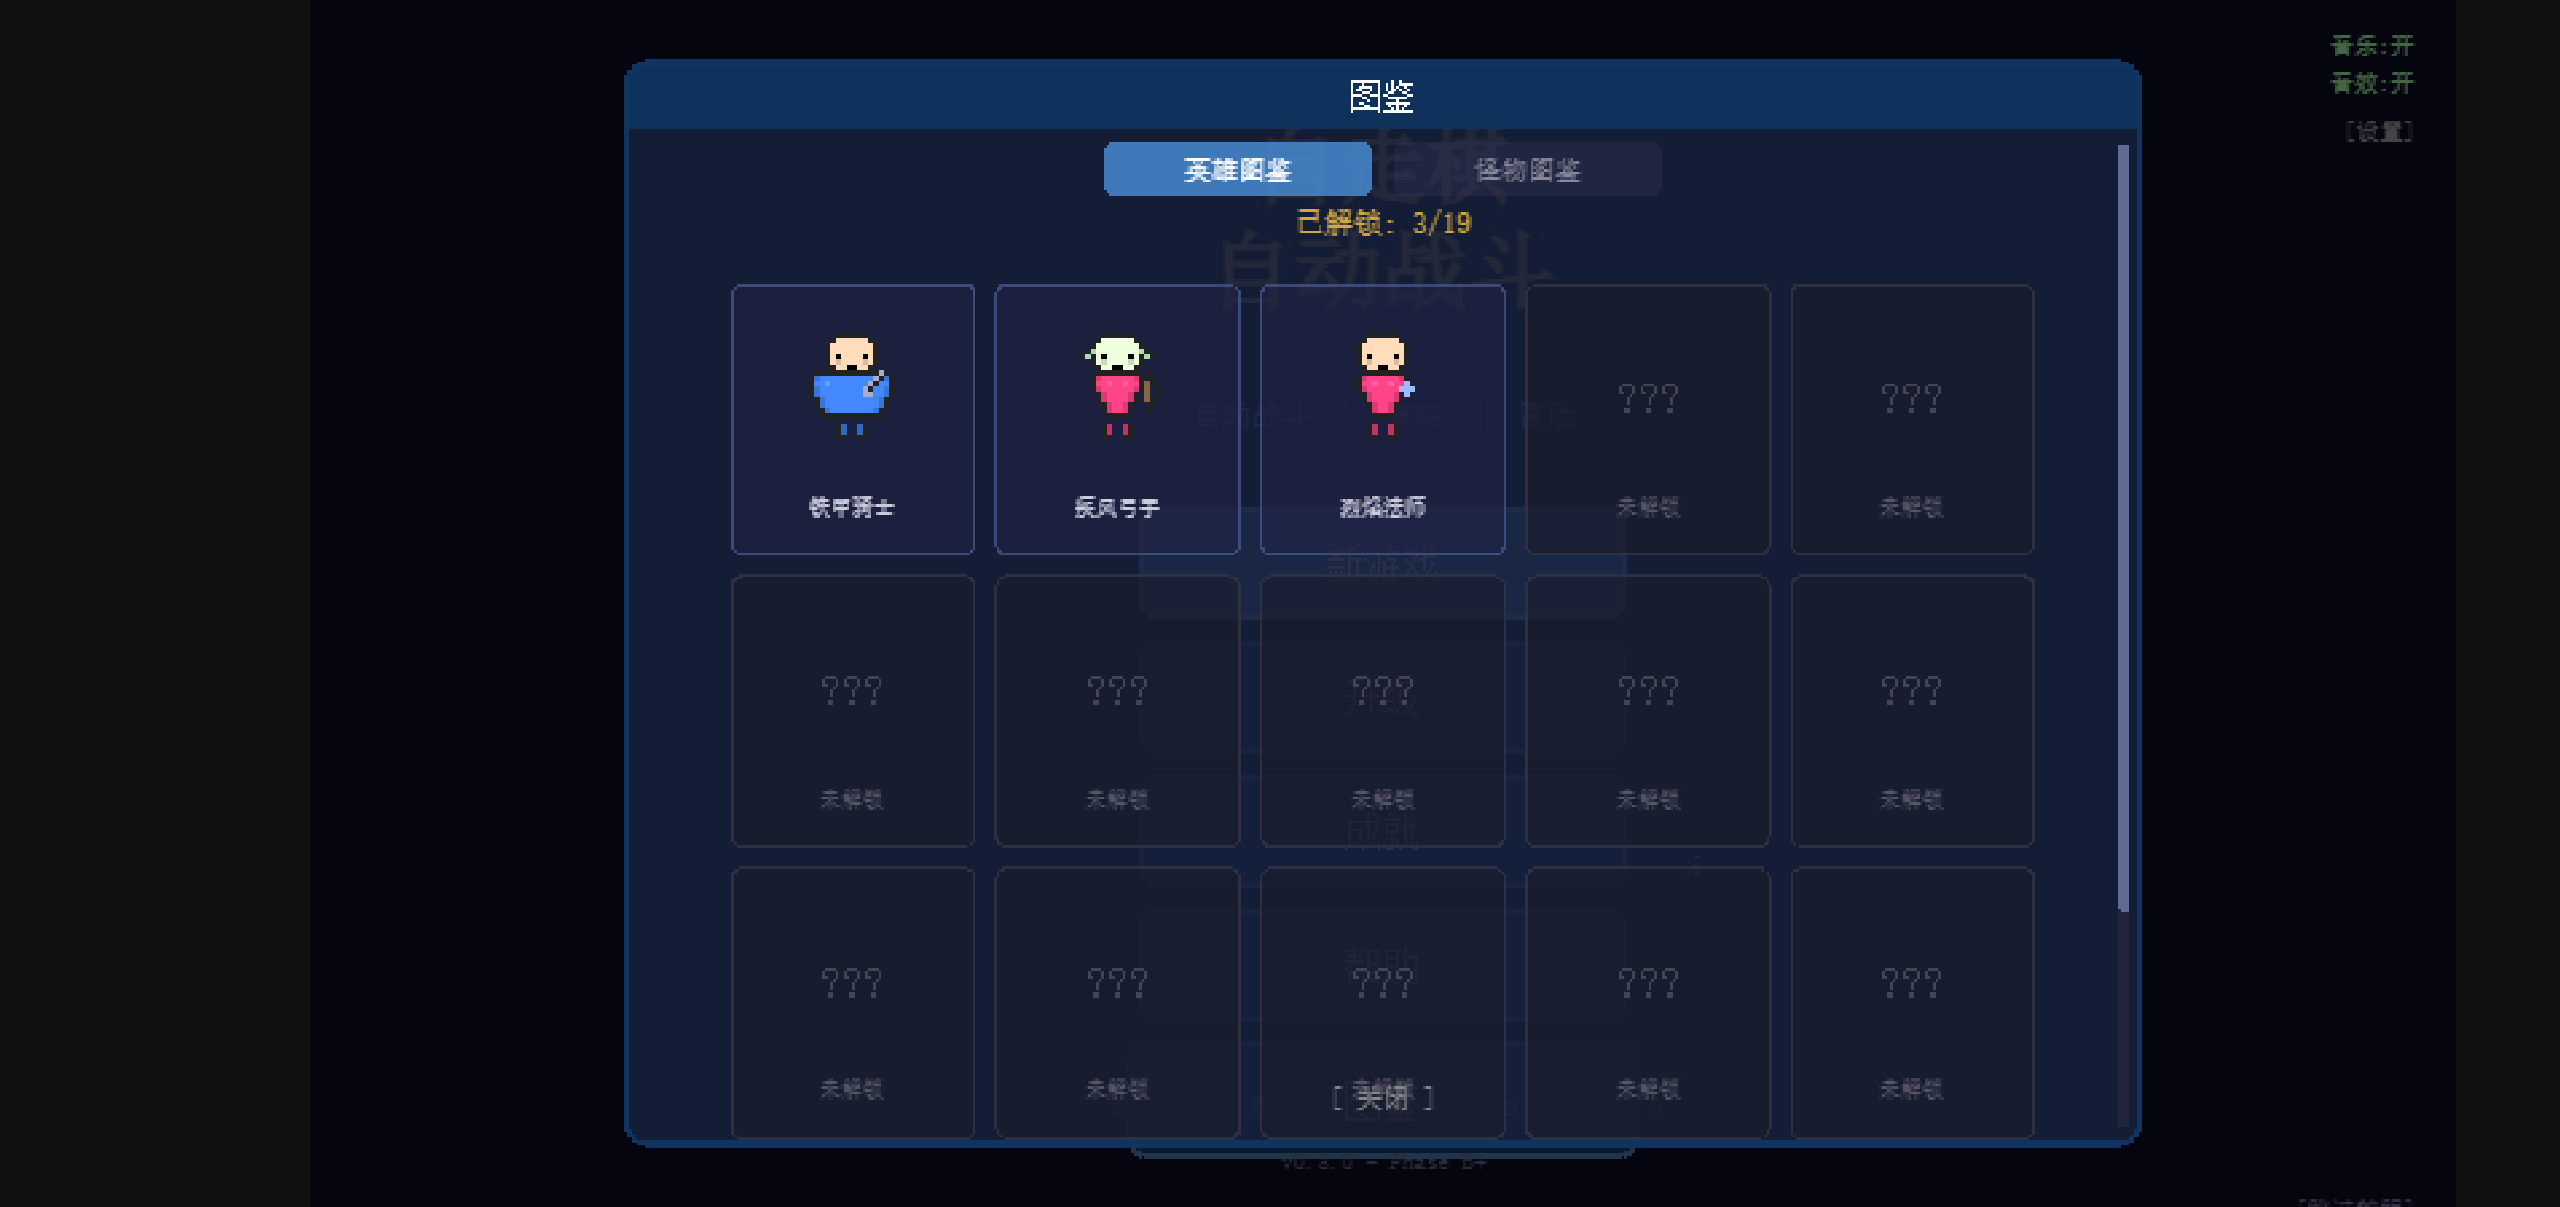
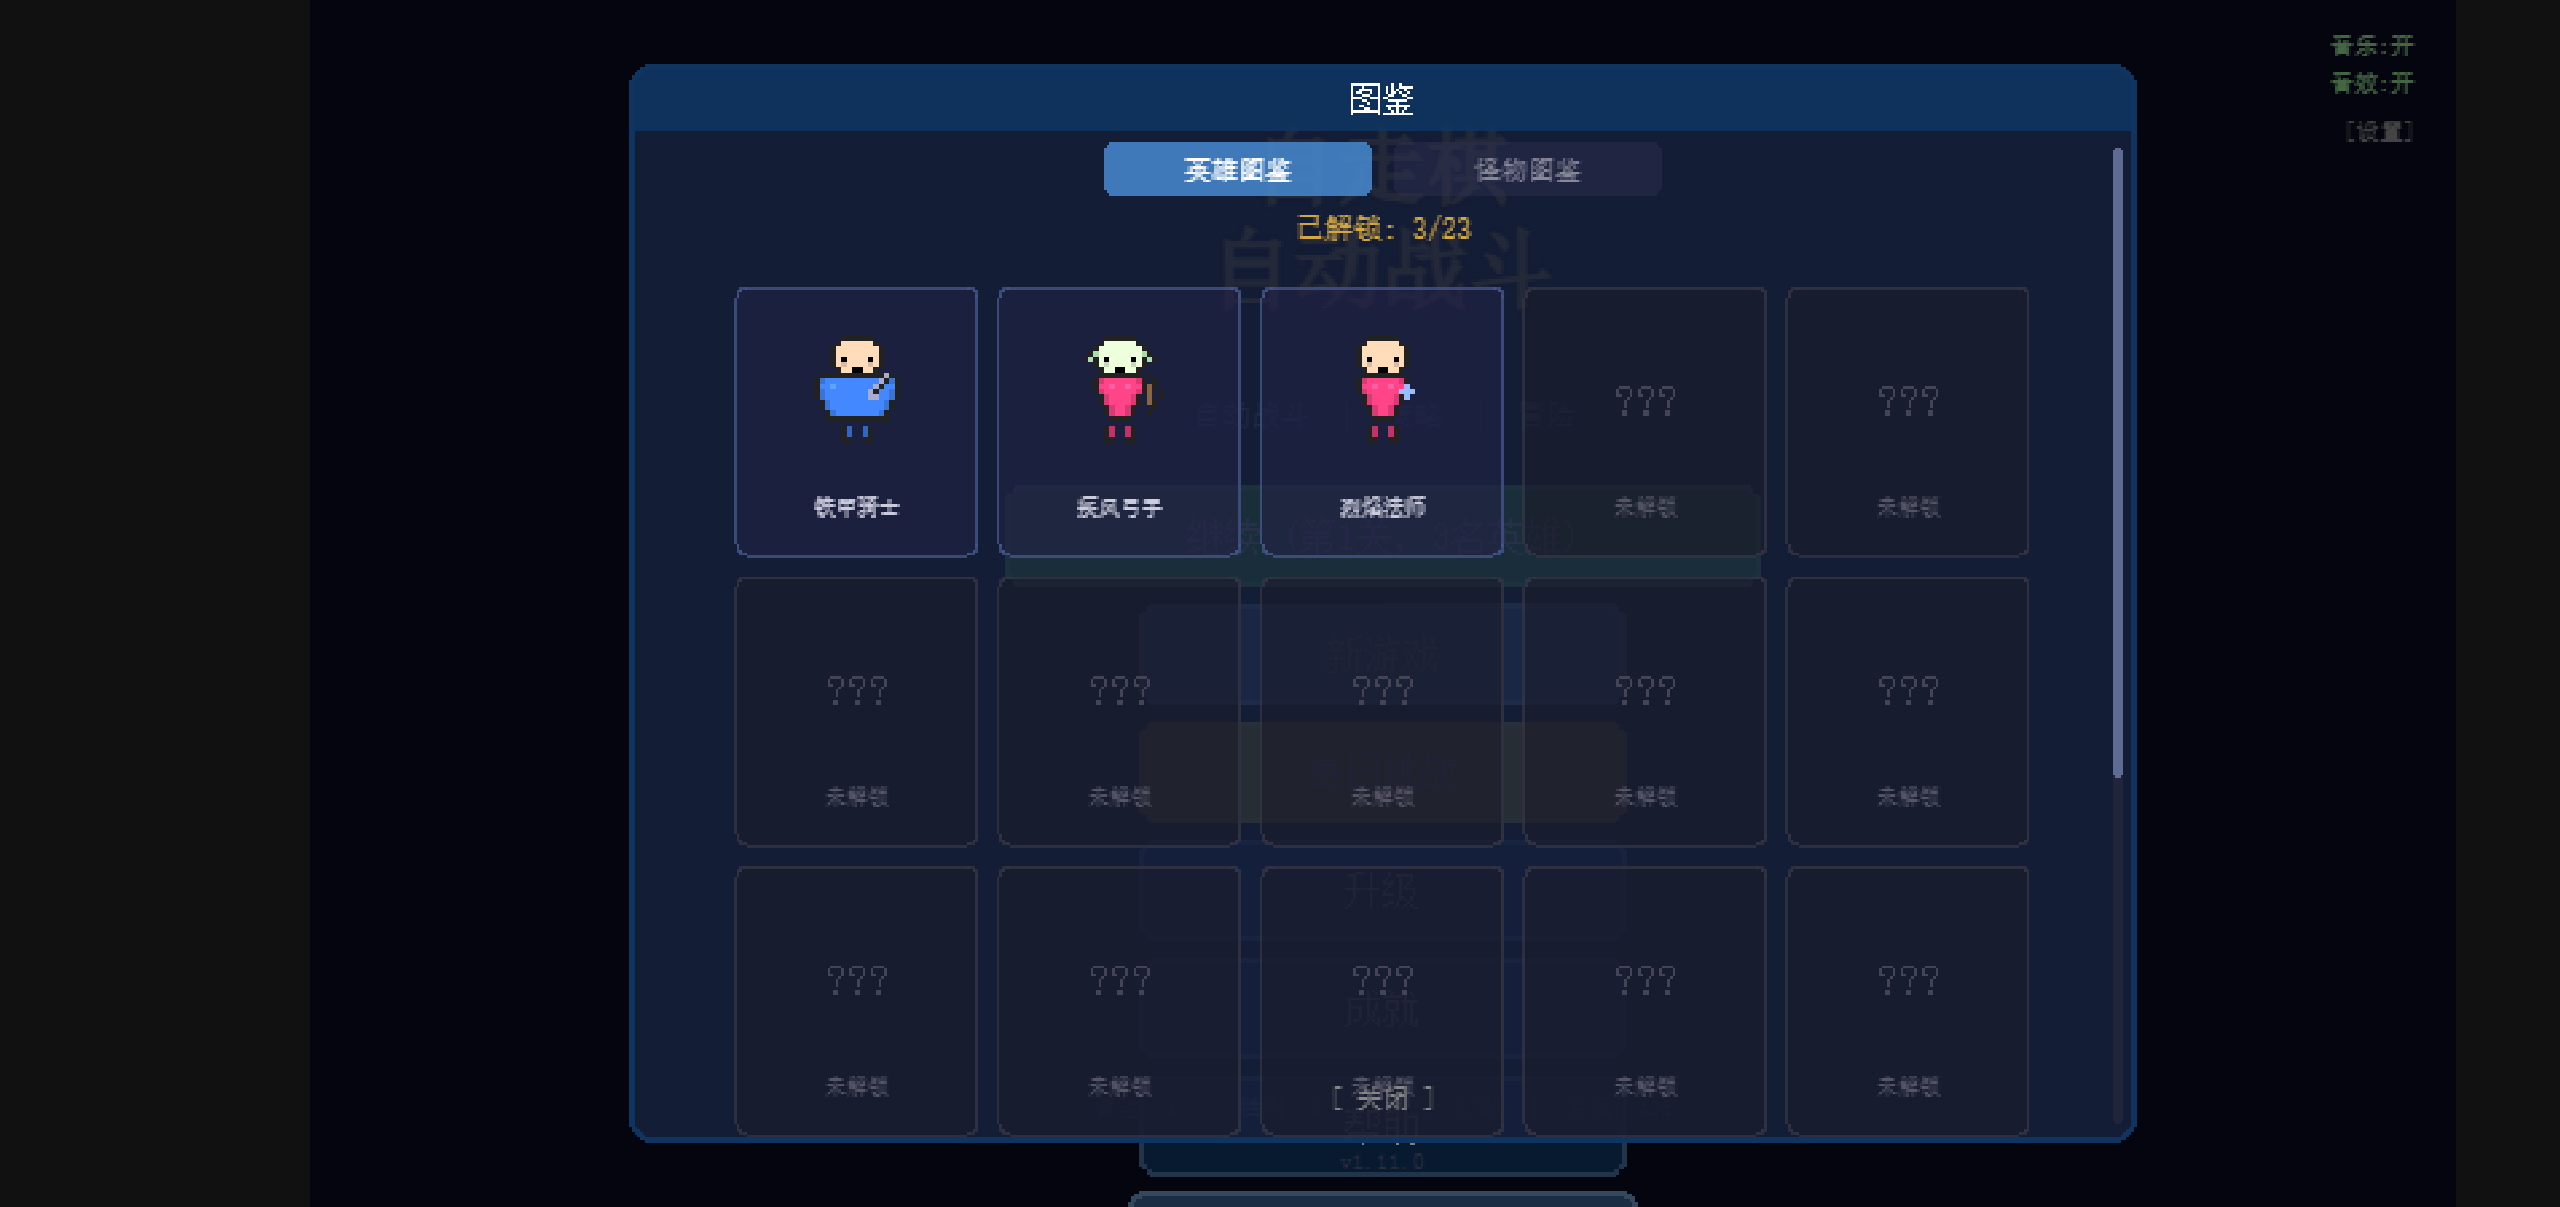
docs: update README and DEVELOPMENT for v1.11.0, refresh all screenshots
- README: update content numbers (23 heroes, 80 skills, 52 items, 48 relics, 37 events, 28 enemies, 4 acts, 841 tests)
- README: add Boss phase system feature, 4th act (元素熔炉)
- DEVELOPMENT: add v1.3.0-v1.11.0 development history (9 versions)
- DEVELOPMENT: update project stats and architecture section
- Screenshots: refresh all 8 game screenshots via Chrome DevTools MCP

diff --git a/DEVELOPMENT.md b/DEVELOPMENT.md
@@ -6,11 +6,11 @@
 
 | 项目 | 数据 |
 |------|------|
-| 开发周期 | 2026-02-26 ~ 2026-03-02 (5天) |
-| Claude 会话数 | 20+ 次 |
-| Git 提交数 | 35+ |
-| 代码规模 | 180+ 文件, 30,000+ 行 |
-| 测试用例 | 615 (44 个测试套件) |
+| 开发周期 | 2026-02-26 ~ 2026-03-13 |
+| Claude 会话数 | 30+ 次 |
+| Git 提交数 | 55+ |
+| 代码规模 | 200+ 文件, 35,000+ 行 |
+| 测试用例 | 841 (62 个测试套件) |
 | 技术栈 | TypeScript + Phaser 3 + Vite |
 
 ---
@@ -82,6 +82,24 @@ Day 4-5 (Mar 01-02)
  ├─ .gitignore 清理 (移除 node_modules/dist 追踪)
  ├─ CLAUDE.md 项目指导文件
  └─ 游戏截图更新 (Chrome MCP 自动化截图)
+
+Day 6-14 (Mar 03-12) — 持续迭代
+ ├─ v1.3.0: 遗物系统激活 (RelicSystem 三层架构, 43遗物)
+ ├─ v1.4.0: 终极技能系统 (19个独特终极技, 混合充能)
+ ├─ v1.5.0: 英雄解锁多样化 (9种条件类型)
+ ├─ v1.6.0: Boss入场动画 + 伤害数字优化
+ ├─ v1.7.0: 事件风险标签 + 5个反应遗物
+ ├─ v1.8.0: 前后排阵型系统
+ ├─ v1.9.0: 多波次连战节点 (Gauntlet)
+ └─ v1.10.0: 战斗突变系统
+
+Day 15 (Mar 13) — 第四幕
+ ├─ v1.11.0: 元素熔炉 (Subagent-Driven Development)
+ │   ├─ 4 名新英雄, 7 个新敌人, 19 个新技能
+ │   ├─ BossPhaseSystem (血量阈值触发阶段)
+ │   ├─ 第四幕门控 (需击败暗影领主)
+ │   └─ 13 个任务 + 双阶段审查 → 841 测试通过
+ └─ README + DEVELOPMENT 文档更新
 ```
 
 ---
@@ -577,7 +595,7 @@ src/
 │   ├── GameOverScene.ts      # 失败 (继承BaseEndScene)
 │   └── VictoryScene.ts       # 胜利 (继承BaseEndScene)
 │
-├── systems/ (24个)
+├── systems/ (28个)
 │   ├── BattleSystem.ts       # 战斗主循环
 │   ├── DamageSystem.ts       # 伤害计算管道
 │   ├── SkillSystem.ts        # 技能释放逻辑
@@ -601,7 +619,11 @@ src/
 │   ├── DifficultySystem.ts   # 难度配置
 │   ├── TutorialSystem.ts     # 教程系统
 │   ├── ErrorHandler.ts       # 错误环形缓冲
-│   └── GameLifecycle.ts      # 统一生命周期管理
+│   ├── GameLifecycle.ts      # 统一生命周期管理
+│   ├── RelicSystem.ts        # 遗物运行时求值 (三层架构)
+│   ├── UltimateSystem.ts     # 终极技能能量管理
+│   ├── DamageAccumulator.ts  # 伤害数字合并
+│   └── BossPhaseSystem.ts    # Boss 阶段触发
 │
 ├── managers/ (5个)
 │   ├── RunManager.ts         # 单局运行状态 (序列化/反序列化)
@@ -633,10 +655,10 @@ src/
 │   └── MapRenderer.ts        # 地图渲染
 │
 ├── data/
-│   ├── heroes.ts (19)        ├── enemies.ts (21)
-│   ├── skills.ts (46)        ├── items.ts (48)
-│   ├── events.ts (34)        ├── relics.ts (35)
-│   ├── acts.ts (3)           ├── achievements.ts (25)
+│   ├── heroes.ts (23)        ├── enemies.ts (28)
+│   ├── skills.ts (80)        ├── items.ts (52)
+│   ├── events.ts (37)        ├── relics.ts (48)
+│   ├── acts.ts (4)           ├── achievements.ts (25)
 │   ├── pixel-templates.ts    # 像素矩阵模板 + 调色板
 │   ├── skill-visuals.ts      └── skill-advancements.ts
 │
@@ -699,6 +721,88 @@ src/
 
 ---
 
+## 持续迭代 (v1.3.0 ~ v1.11.0)
+
+### v1.3.0 — 遗物系统激活 (Mar 03-04)
+
+**核心功能：** `RelicSystem` 单例模式，43 个遗物运行时求值
+
+- **三层集成架构:**
+  1. 属性加成层 (`getStatModifiers`) — 应用于 `Unit.getEffectiveStats()`
+  2. 响应式层 (`registerListeners`) — EventBus 订阅 on_damage/on_kill/on_heal/on_battle_start/on_battle_end
+  3. 公式修正层 — 内联查询: `getDefensePiercing()`, `getDamageBonus()`, `getHealBonus()` 等
+- **8 个构建定义型遗物:** armor_piercer, overflow_shield, chain_reaction, glass_cannon, mono_element_crown, diversity_badge, berserker_oath, kill_momentum
+- **特殊机制:** phoenix_ash (每场一次复活), shield_charm (周期治疗), overflow_shield (治疗溢出→临时HP)
+
+### v1.4.0 — 终极技能系统 (Mar 04-05)
+
+**核心功能：** 19 个英雄独特终极技能，混合能量充能机制
+
+- `UltimateSystem.ts`: 被动 2/s + 攻击 3 + 技能 5 + 受伤 2 + 击杀 10 → ~20-25s 充满
+- `UltimateBar.ts`: 4 个圆形按钮 (Q/W/E/R 快捷键), 能量环弧线, 脏标记重绘优化
+- 终极技能从自动释放、技能队列、SkillBar 显示中过滤
+- 17 个 UltimateSystem 测试
+
+### v1.5.0 — 英雄解锁多样化 (Mar 05-06)
+
+- **9 种解锁条件类型:** default, runs, victory, floor, element_wins, boss_kill, no_healer_win, full_element_team, relic_count, hero_used
+- `RunEndContext` 接口贯穿结算链: VictoryScene/GameOverScene → BaseEndScene → RunEndPanel → MetaManager.recordRunEnd
+- `defeatedBosses: string[]` 新增到 MetaProgressionData
+- RelicSystem RNG 确定性修复 — `activateWithUnits(relics, heroes, enemies, rng?)`
+
+### v1.6.0 — Boss 入场动画 + 伤害数字优化 (Mar 06)
+
+- Boss 入场: 震屏 + 闪烁 + 名称渐入动画
+- `DamageAccumulator`: 同源同目标伤害合并显示，减少数字飘浮数量
+- 名称可见性优化: 仅显示存活单位名称
+
+### v1.7.0 — 事件风险标签 + 反应遗物 (Mar 07)
+
+- 事件选项显示风险等级标签 (低风险/中风险/高风险)
+- 商店物品悬浮提示 (属性对比)
+- **5 个元素反应遗物:** melt_heart (治疗), overload_engine (眩晕), superconduct_shield (+HP), annihilation_echo (回响伤害), elemental_resonance (-法抗减益)
+
+### v1.8.0 — 前后排阵型系统 (Mar 08-09)
+
+- 前排/后排阵型选择 (FormationPanel UI)
+- 目标选择优先级: 前排优先被攻击
+- 阵型数据 Save/Load 兼容
+
+### v1.9.0 — 多波次连战节点 (Mar 09-10)
+
+- **Gauntlet 节点类型:** 2-3 波敌人，无缝波次过渡
+- 波次间保留英雄状态，累积奖励 ×0.8 平衡系数
+- `BattleSystem.replaceEnemies()` + `setWaveData()` 波次管理
+
+### v1.10.0 — 战斗突变系统 (Mar 11-12)
+
+- 4 个战斗突变 (overkill, crit CD, heal shield, reaction chain)
+- 突变可选字段兼容旧存档
+- 代码质量改进
+
+### v1.11.0 — 第四幕：元素熔炉 (Mar 13)
+
+**使用 Subagent-Driven Development 执行 (13 个任务 + 双阶段审查)**
+
+**新内容:**
+- **4 名新英雄:** elemental_weaver (龙族/法师/辅助), forest_stalker (兽族/刺客/近战), magma_warden (龙族/战士/坦克/火), storm_falcon (兽族/游侠/远程/雷)
+- **7 个新敌人:** flame_construct, frost_sentinel, lightning_strider, holy_smith, void_weaver, elemental_chimera (精英), heart_of_the_forge (Boss)
+- **19 个新技能:** 12 英雄技能 + 7 敌人技能
+- **4 件新装备:** forge_hammer_weapon, elemental_plate, forge_core, elemental_fusion_blade
+- **3 个新事件:** forge_trial, element_shard, master_smith
+
+**新系统:**
+- `BossPhaseSystem.ts`: 监控 Boss 血量阈值 (75%/50%/25%)，触发召唤增援 + Boss 强化效果 (护盾/狂暴/减伤)
+- `BattleSystem.addUnit()`: 战斗中途添加敌人单位
+- 第四幕门控: 需击败暗影要塞 Boss (shadow_lord) 解锁
+
+**技术实现:**
+- 计划审查循环发现 3 个关键问题 (JSON null vs undefined, 不支持的 stat 字段, Boss 效果仅为视觉)
+- 13 个实施子任务 + 规格合规审查 + 代码质量审查
+- 62 个测试套件, 841 个测试全部通过, 零 TypeScript 错误
+
+---
+
 ## 八、经验总结
 
 ### 8.1 高效的用户-AI协作模式
@@ -737,6 +841,6 @@ src/
 | Agent Swarm次数 | 10次 |
 | 最大Agent数 | 5 (研究/测试) |
 | Bug发现总数 | 100+ |
-| 测试用例 | 615 (44套件) |
-| 代码行数 | 30,000+ |
-| 开发耗时 | ~5天 |
+| 测试用例 | 841 (62套件) |
+| 代码行数 | 35,000+ |
+| 开发耗时 | ~16天 |

diff --git a/README.md b/README.md
@@ -40,23 +40,25 @@
 ## 游戏特色
 
 - **像素风 Chibi 角色** — 16×20 像素矩阵分层渲染，按职业/种族/职业自动组合
-- **19 名英雄** — 坦克、近战、远程、治疗、辅助五大职业
+- **23 名英雄** — 坦克、近战、远程、治疗、辅助五大职业
 - **5 元素系统** — 火/冰/雷/暗/圣，元素克制 + 4 种元素反应
 - **6 种族 + 6 职业羁绊** — 达到阈值触发团队增益
-- **46 种技能** — 每个英雄拥有独特技能组合
-- **48 件装备 + 35 个遗物** — 丰富的 Build 搭配
-- **34 个随机事件** — 高风险高回报的策略抉择
-- **3 幕章节** — 魔法森林 → 熔岩洞穴 → 暗影要塞
+- **80 种技能** — 每个英雄拥有独特技能组合 + 终极技能
+- **52 件装备 + 48 个遗物** — 丰富的 Build 搭配
+- **37 个随机事件** — 高风险高回报的策略抉择
+- **28 种敌人** — 包含 5 个Boss，支持阶段性Boss机制
+- **4 幕章节** — 魔法森林 → 熔岩洞穴 → 暗影要塞 → 元素熔炉
 - **4 难度等级** — 普通/困难/噩梦/地狱，逐步解锁
 - **图鉴系统** — 英雄图鉴 + 怪物图鉴，遇见即解锁
 - **成就系统** — 25 个成就 + 英雄解锁条件
 - **存档系统** — 3 个存档槽位 + 自动存档
+- **Boss 阶段系统** — Boss 血量阈值触发召唤增援和强化效果
 
 ## 技术栈
 
 - **TypeScript** + **Phaser 3** — 游戏引擎
 - **Vite** — 构建工具，支持代码分割
-- **Vitest** — 测试框架 (615 测试用例, 44 套件)
+- **Vitest** — 测试框架 (841 测试用例, 62 套件)
 - 纯 Phaser Canvas 渲染，无 DOM UI
 - 像素矩阵 Chibi 渲染系统 (分层模板 + 调色板映射)
 
@@ -81,7 +83,7 @@ npm test
 ```
 src/
 ├── scenes/       # 12 个游戏场景
-├── systems/      # 24 个游戏系统 (战斗/伤害/技能/元素/羁绊/渲染等)
+├── systems/      # 28 个游戏系统 (战斗/伤害/技能/元素/羁绊/渲染/Boss阶段等)
 ├── entities/     # 单位实体 (Unit/Hero/Enemy)
 ├── managers/     # 管理器 (Run/Save/Meta/Stats/Achievement)
 ├── ui/           # UI 组件 (Panel/Button/HeroCard/HUD/Codex等)
